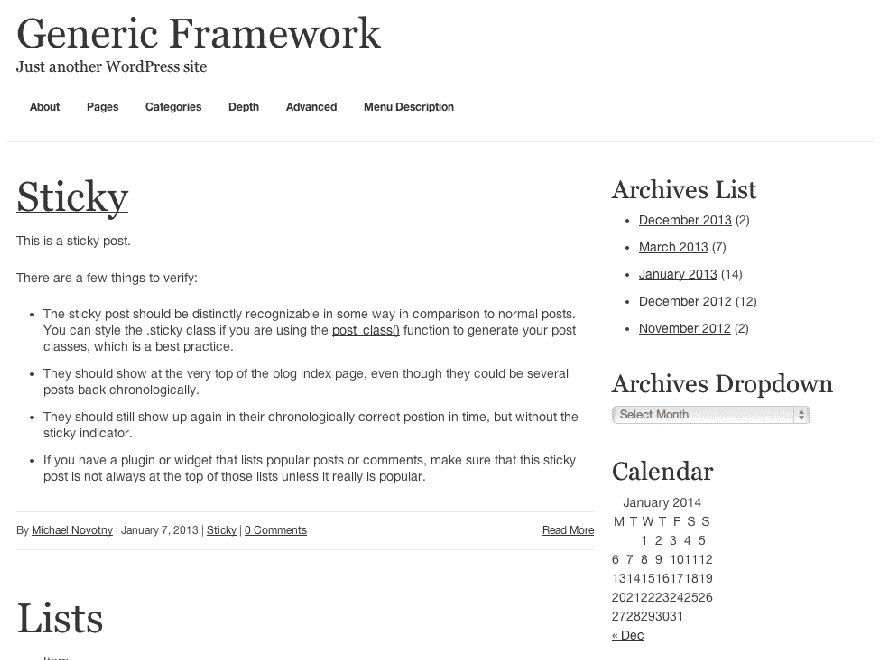
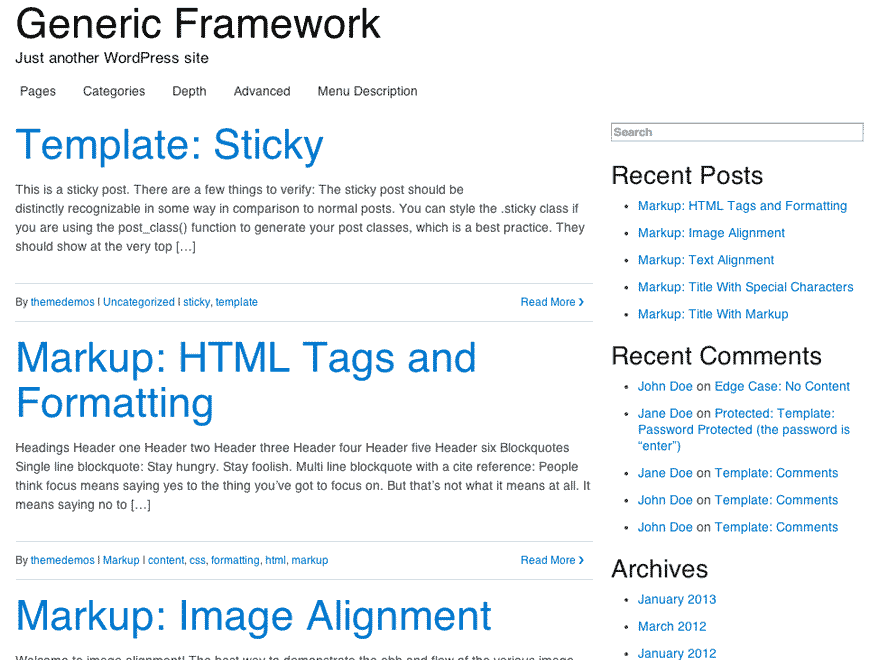
0.9.93 Stable Release

diff --git a/generic-framework/style.css b/generic-framework/style.css
@@ -2,9 +2,9 @@
 Theme Name: Generic Framework
 Theme URI: https://github.com/philhoyt/Generic_WP_Framework.git
 Author: Phil Hoyt
-Author URI: https://philhoyt.com
+Author URI: http://philhoyt.com
 Description: Generic Framework has been completly recoded between version 0.9.86 and 0.9.90 to provide a better experience upon release of 1.0.0 Do not upgrade if using older versions as it most likley not be compabitle. Responsive framework based on getskeleton.com, made for child themes.
-Version: 0.9.91
+Version: 0.9.93
 License: GPL
 License URI: http://www.opensource.org/licenses/gpl-license.php
 Tags: responsive-layout, white, right-sidebar, two-columns, theme-options, editor-style, full-width-template

diff --git a/generic-framework/stylesheets/base.css b/generic-framework/stylesheets/base.css
@@ -100,7 +100,7 @@
 
 /* #Links
 ================================================== */
-	a, a:visited { color: #0077CC; cursor: pointer; text-decoration: none; outline: 0; }
+	a, a:visited { color: #5DADE2; cursor: pointer; text-decoration: none; outline: 0; }
 	a:hover, a:focus { text-decoration: underline; }
 
 /* #Navigation
@@ -249,7 +249,6 @@
 	color:#333333;
 	font-size:12px;
 	font-weight:bold;
-	font-family:"HelveticaNeue","Helvetica Neue",Helvetica,Arial,sans-serif;
 	padding:0 15px;
 	line-height:32px;
 	height: auto;
